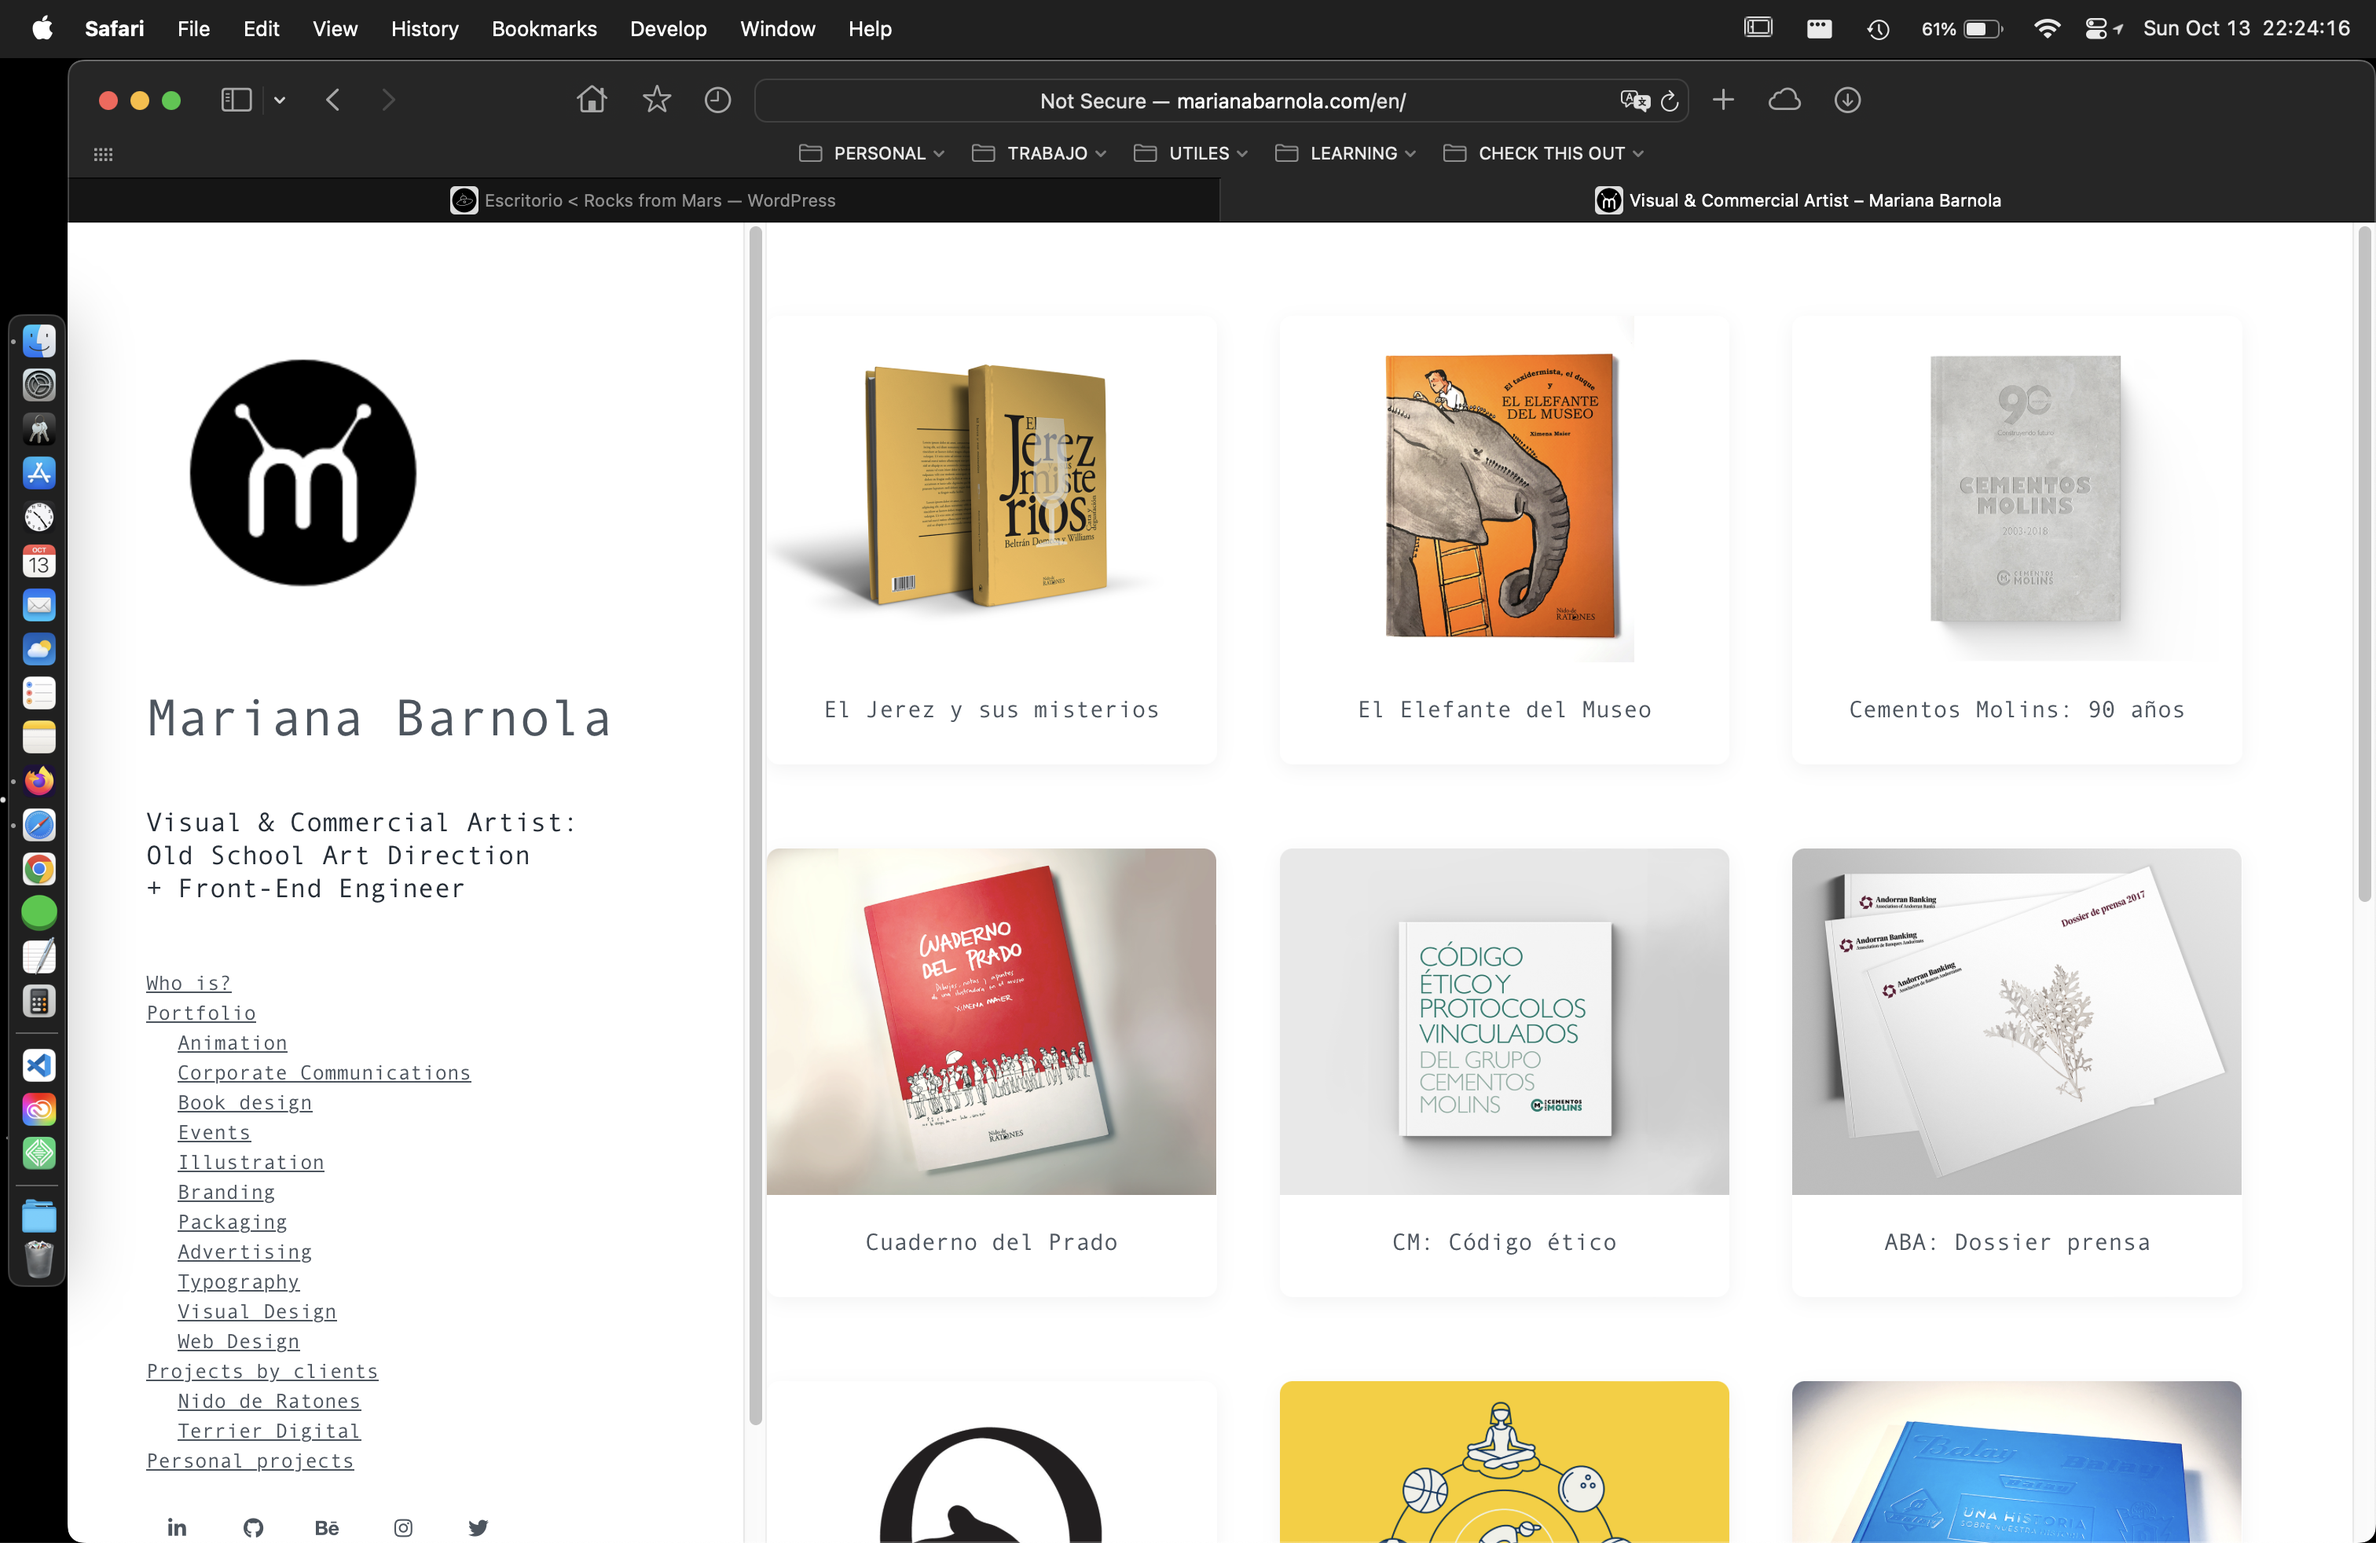
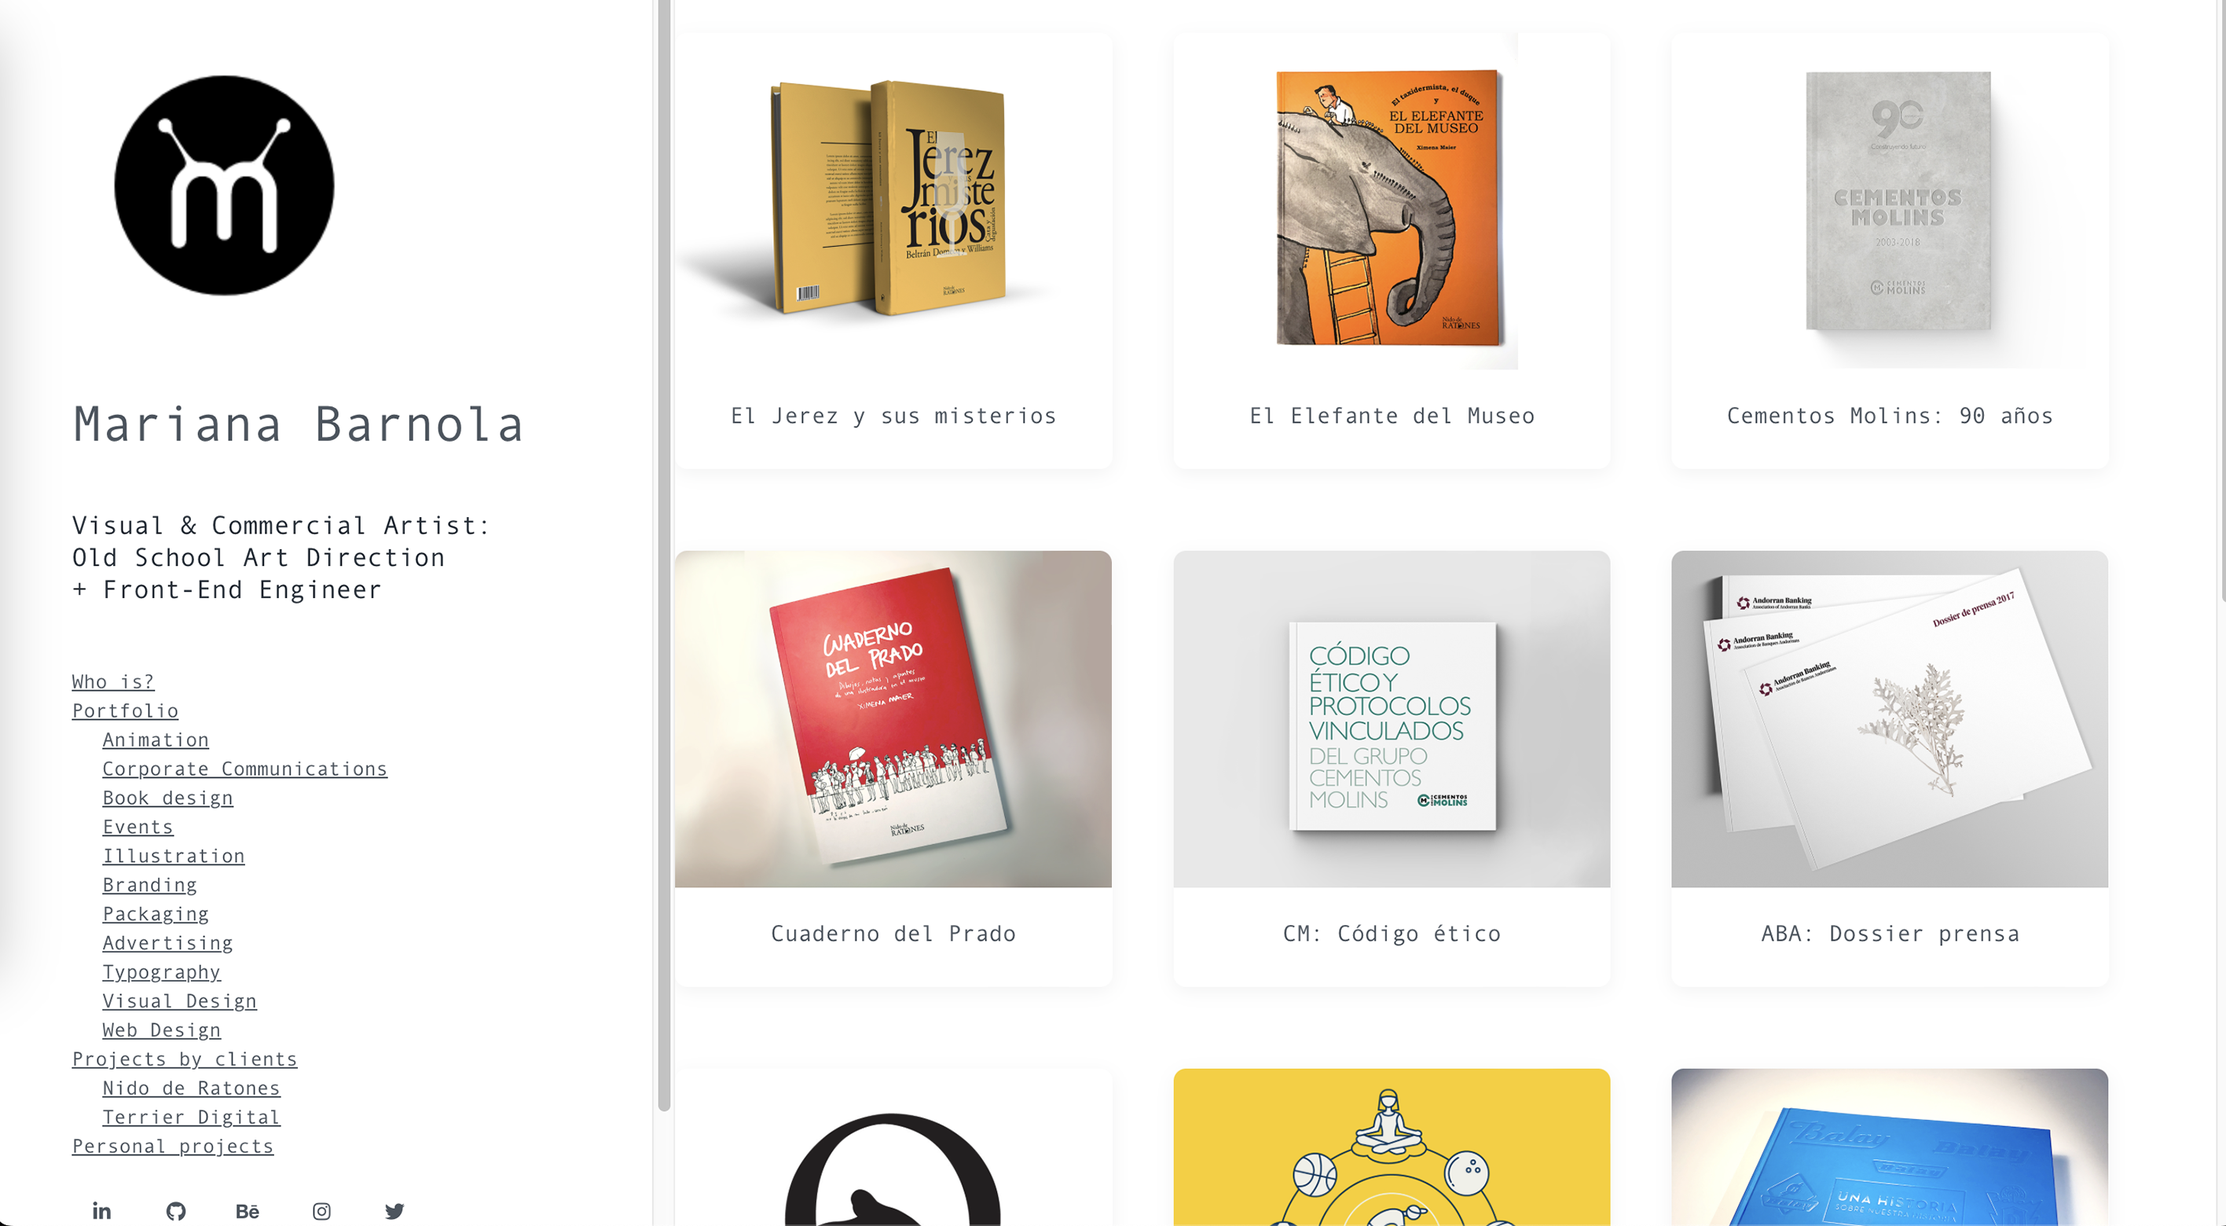
update to 2.0 - MMXXIV
Update screenshots and descriptions

diff --git a/index.html b/index.html
@@ -61,11 +61,9 @@
 <!-- aboutMe -->
             <section id="about-me">
                 <h4>About me</h4>
-                <p> I'm a graphic designer from Spain with a 20+ years experience in advertising, illustration and book design.
+                <p> I'm a graphic designer from Spain with a 30+ years experience in advertising, illustration and book design.
                     <br><br>
-                    A few years ago while I was designing my own webpages with WordPress, looking around for some css to style the Theme found CodeCademy and started with the most basic courses right away... and ended up learning all my way through a few courses and the Front-End Engineer career path.
-                    <br><br>
-                    I'm glad I found this great community,<br> where to learn and meet people.
+                    A few years ago while I was designing my own webpages with WordPress, looking around for some css to style the Themes found CodeCademy and started with the most basic courses right away... and ended up learning all my way through the Front-End Engineer career path.
                     <br><br>
                     👽
                     </p>
@@ -78,10 +76,7 @@
 
 <!-- PROJECTS -->
             <section id="projects">
-                <h4>Web projects</h4>
-         
-                <p>I learned by myself and with help from a online course, how to deal with Wordpress and made these two sites. Soon I'll add some more projects to this page:
-                </p>
+                <h4>My Websites</h4>
 
                 <div class="twoProjects">
                     <div class="web-project">
@@ -100,13 +95,13 @@
                     <div class="web-project">
                         <div class="pantallazo">
                             <img class="screenShot"
-                            src="./images/Screenshot 2022-01-21 at 21.09.50.png">
+                            src="./images/Screenshot 2024-10-14 at 21.06.53.png">
                         </div>
 
                         <div class="enlace-web">
                             <a href=https://www.rocksfrommars.net target=new><h5>rocksfrommars.net</h5></a>
 
-                            <p>This is Rocks from Mars, my handmade bijou virtual showroom.
+                            <p>This is my handmade bijou showroom.
                             </p>
                         </div>
                     </div>
@@ -190,7 +185,7 @@
 
 <!-- FOOTER -->
         <footer>
-            <p class="copyright">v1.1 @MBC MMXXIV</p>
+            <p class="copyright">v2.0 @MBC MMXXIV</p>
         </footer>
     </body>
 

diff --git a/styles.css b/styles.css
@@ -11,7 +11,7 @@
   body {
     --icon-color: #cc4100;
     --text-color: #222;
-    --bkg-color: #eee;
+    --bkg-color: #efefee;
     --anchor-color: #cc4100;
     --footer-text-color: gray;
     --footer-bkg-color: #222;
@@ -318,7 +318,7 @@
     .twoProjects {
       display: grid;
       grid-template-columns: 1fr 1fr;
-      gap: 5%;
+      gap: 2%;
       width: 100%;
       margin: auto;
     }

diff --git a/README.md b/README.md
@@ -1,7 +1,7 @@
 # Portfolio Project
 
-This is the source code for my portfolio Project
-in the Front-End engineer path at CodeCademy.
+This is the source code for the portfolio Project
+for the Front-End engineer path at CodeCademy.
 
 Dark mode added with the help of CSS-TRICKS 
 (https://css-tricks.com/a-complete-guide-to-dark-mode-on-the-web/)
